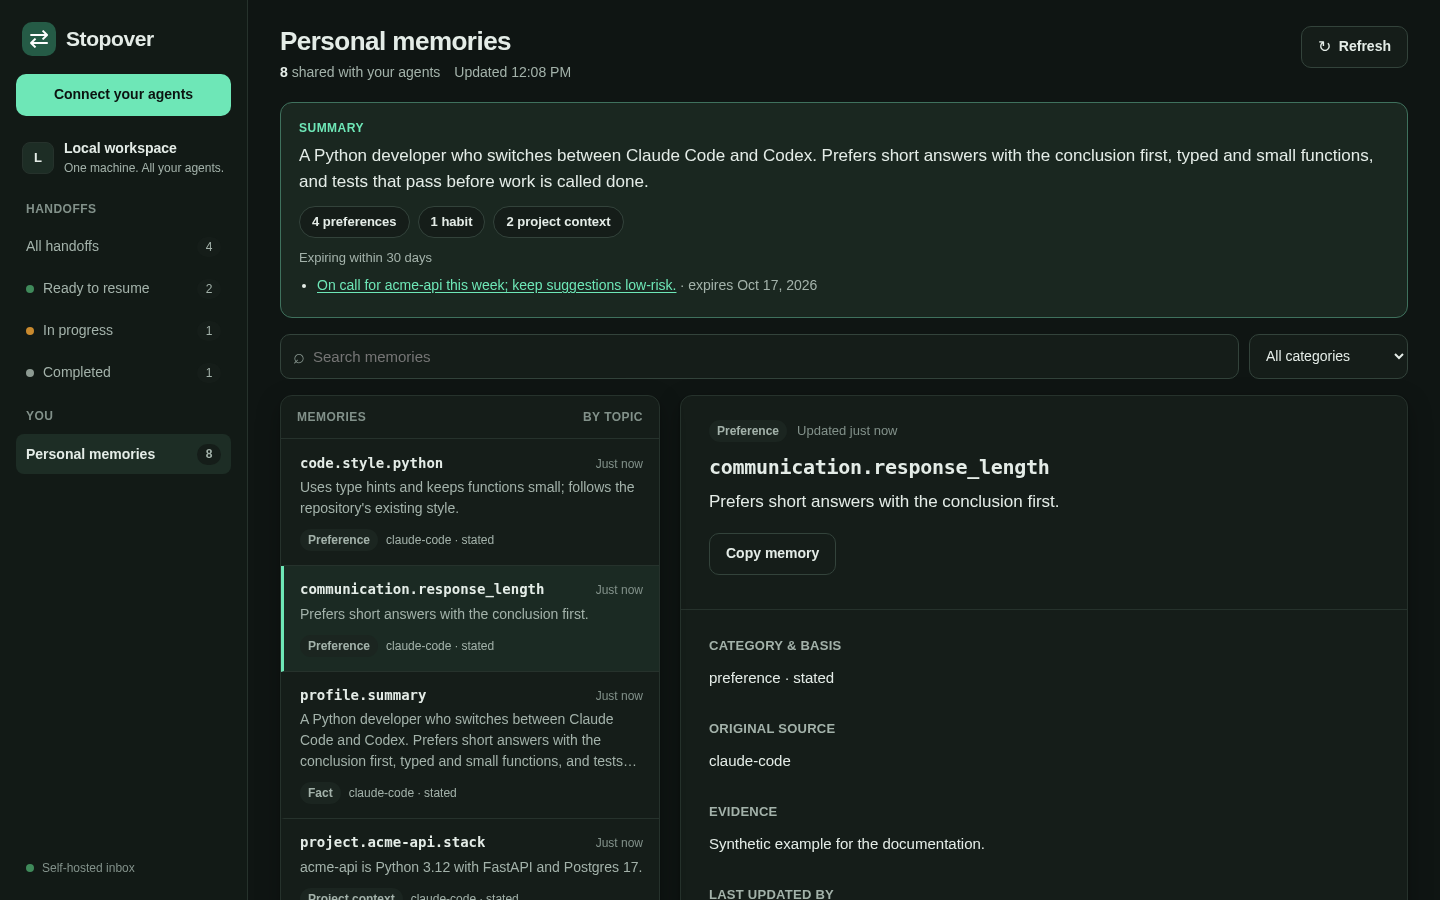
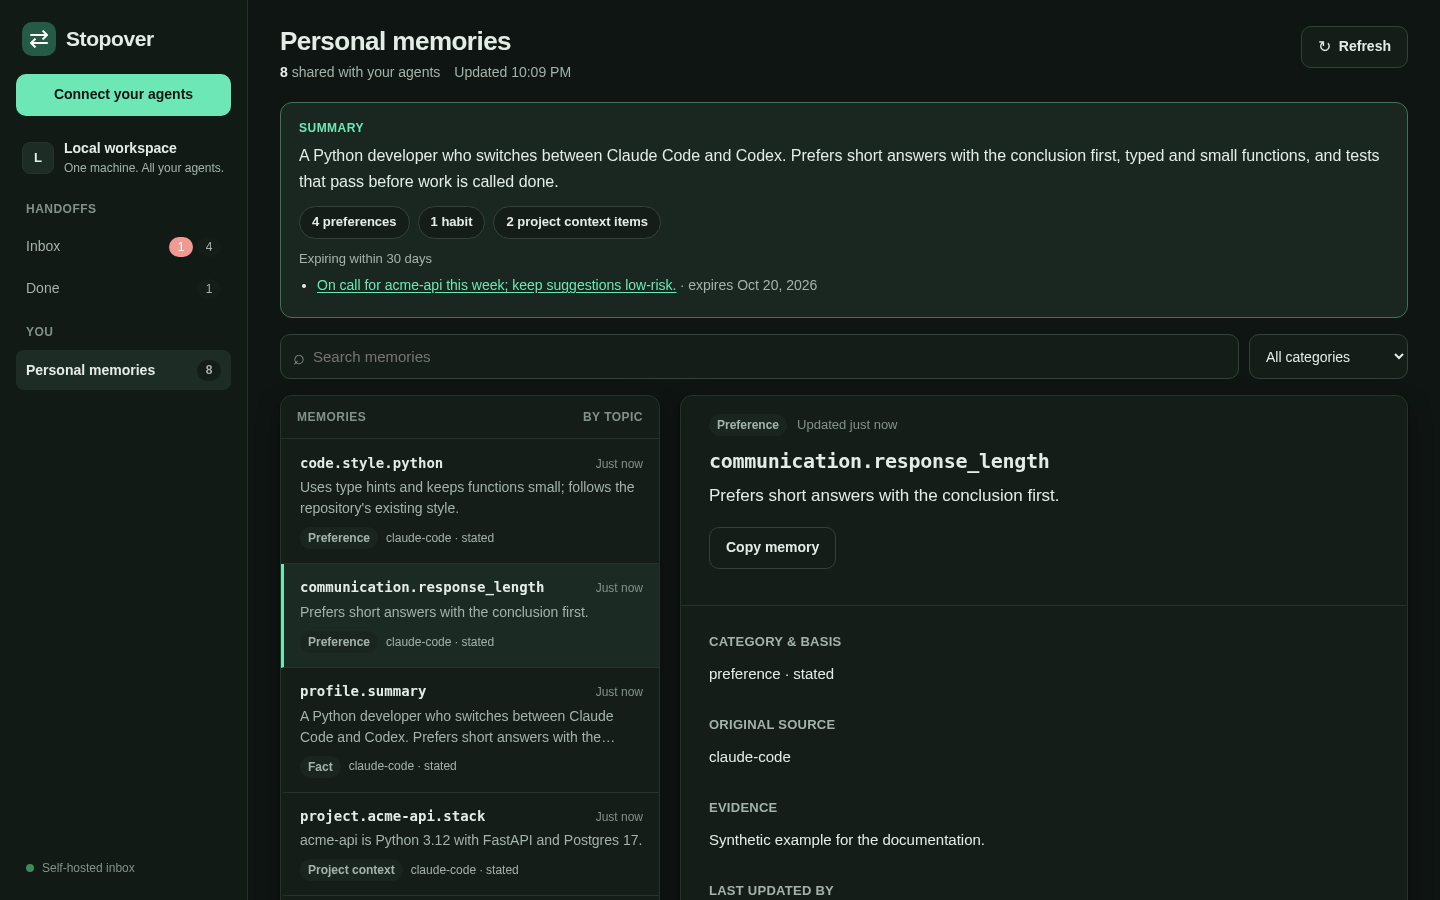
README: Stopover as an inbox for your agents' work
Lead with the problem and the inbox: hand work between agents, see what needs
you, answer questions, claims and checked outcomes, with personal memory as
support. Walk through the everyday loop, and say plainly what Stopover doesn't
do. Regenerate the screenshots from the new dashboard, including a handoff
waiting on questions.

Claude-Session: https://claude.ai/code/session_01XdbK9rSo4eS7x4nARt7MPg

diff --git a/scripts/screenshots.py b/scripts/screenshots.py
@@ -33,7 +33,9 @@ from stopover.sample import sample_record  # noqa: E402
 HANDOFFS = [
     dict(title="Fix refresh-token rotation in the auth service", project_key="acme-api", client="claude-code",
          target=None, objective="Rotate refresh tokens on every use and detect reuse of an old token.",
-         summary="Refresh-token rotation and reuse detection work; next, add the 30-day expiry tests, then document it.",
+         summary="Refresh tokens now rotate on every use, and reusing an old token revokes the whole token family. Mobile "
+                 "tokens expire after 30 days because people sign in on phones less often.\n\nIt stopped before the expiry "
+                 "tests. Next, add tests for expiry and reuse detection, then document the behaviour in docs/auth.md.",
          state="Rotation and reuse detection are implemented. Expiry tests are still missing.",
          decision=("Expire mobile refresh tokens after 30 days", "Mobile users complained about weekly sign-outs."),
          steps=[("expiry-tests", "Add tests for 30-day expiry and reuse detection.", "pytest passes with the new tests."),
@@ -41,7 +43,8 @@ HANDOFFS = [
          criteria=["Reusing a rotated token revokes the whole token family.", "Tests cover expiry and reuse."]),
     dict(title="Migrate the billing worker to the new queue", project_key="acme-api", client="codex", target="claude-code",
          objective="Move the billing worker from the legacy cron to the job queue without double-charging.",
-         summary="The queue consumer is built behind a flag; next, make every charge idempotent before turning off the cron.",
+         summary="The queue consumer is built behind a flag, and the cron stays as a fallback for one release.\n\nNext, "
+                 "make every charge idempotent so a retried job can never charge twice, then turn off the cron.",
          state="The queue consumer exists behind a flag. The cron job still runs in production.",
          decision=("Keep the cron as a fallback for one release", "Rollback must not need a deploy."),
          steps=[("idempotency", "Add an idempotency key to every charge.", "A replayed job never charges twice.")],
@@ -53,6 +56,16 @@ HANDOFFS = [
          decision=("Lazy-load charts below the fold", "Most users never scroll to them."),
          steps=[("split", "Split the chart library into a lazy chunk.", "The initial bundle shrinks by at least 30%.")],
          criteria=["First contentful paint under 1 s in the Lighthouse mobile profile."]),
+    dict(title="Add CSV export to reports", project_key="acme-web", client="codex", target=None,
+         objective="Let people download any report as a CSV file.",
+         summary="The CSV writer streams rows so large reports don't run out of memory, and the export button is on the "
+                 "reports page.\n\nTwo decisions block the last step: which columns to include, and how to format dates.",
+         state="Writer and button done; the column mapping waits on two decisions.",
+         decision=("Stream rows instead of building the file in memory", "Some reports have a million rows."),
+         steps=[("columns", "Map the chosen columns.", "The file contains exactly the agreed columns.")],
+         criteria=["Downloading any report produces a valid CSV."],
+         questions=["Which columns go in the export: everything on screen, or a fixed set?",
+                    "Should dates be in UTC or the viewer's timezone?"]),
     dict(title="Write the release notes for 2.4", project_key="acme-web", client="hermes", target="codex",
          objective="Summarise the 2.4 changes for customers.", state="Draft covers features; fixes are missing.",
          decision=("Group fixes by product area", "Customers scan by area, not by ticket."),
@@ -88,7 +101,7 @@ def record_for(spec) -> dict:
                    background="Synthetic example for Stopover's documentation; not a real project.", constraints=[],
                    decisions=[{"decision": spec["decision"][0], "reason": spec["decision"][1], "evidence_ids": []}],
                    next_steps=[{"id": i, "action": a, "done_when": d} for i, a, d in spec["steps"]],
-                   acceptance_criteria=spec["criteria"], open_questions=[])
+                   acceptance_criteria=spec["criteria"], open_questions=spec.get("questions", []))
     if record["target_client"] is None:
         del record["target_client"]
     return record
@@ -108,10 +121,10 @@ async def populate(url: str):
         for spec in HANDOFFS:
             saved.append(await call("stopover_save", {"operation_id": str(uuid.uuid4()), "record": record_for(spec)}))
             time.sleep(1.1)  # distinct timestamps, so the list order is stable
-        # One handoff in progress, one finished, the rest available.
+        # One handoff with an agent, one asking questions, one finished, the rest ready to continue.
         await call("stopover_resume", {"operation_id": str(uuid.uuid4()), "id": saved[1]["id"], "holder_label": "claude-code"})
-        done = await call("stopover_resume", {"operation_id": str(uuid.uuid4()), "id": saved[3]["id"], "holder_label": "codex"})
-        await call("stopover_complete", {"operation_id": str(uuid.uuid4()), "id": saved[3]["id"], "claim_token": done["claim_token"],
+        done = await call("stopover_resume", {"operation_id": str(uuid.uuid4()), "id": saved[4]["id"], "holder_label": "codex"})
+        await call("stopover_complete", {"operation_id": str(uuid.uuid4()), "id": saved[4]["id"], "claim_token": done["claim_token"],
                                       "completion": {"outcome": "succeeded", "summary": "Release notes drafted with all fixes.",
                                                      "acceptance_results": [{"index": 0, "result": "pass",
                                                                              "evidence": "Checked against the 2.4 milestone."}]}})
@@ -128,7 +141,7 @@ async def populate(url: str):
 SHOWN = "http://127.0.0.1:8765"
 
 
-def capture(base: str, first_id: str):
+def capture(base: str, first_id: str, asking_id: str):
     OUT.mkdir(parents=True, exist_ok=True)
     with sync_playwright() as p:
         browser = p.chromium.launch()
@@ -149,6 +162,9 @@ def capture(base: str, first_id: str):
         open_list(page, f"/handoffs/{first_id}")
         page.wait_for_function("!document.querySelector('#detail .empty-detail')", timeout=15000)
         page.screenshot(path=OUT / "handoff-detail.png")
+        open_list(page, f"/handoffs/{asking_id}")
+        page.wait_for_selector("#detail .question-card", timeout=15000)
+        page.screenshot(path=OUT / "questions.png")
         page.goto(SHOWN + "/memories/communication.response_length")
         page.wait_for_selector("#memory-list button", timeout=15000)
         page.wait_for_function("!document.querySelector('#memory-detail .empty-detail')", timeout=15000)
@@ -177,7 +193,7 @@ def main():
                 except OSError:
                     time.sleep(0.1)
             saved = asyncio.run(populate(base + "/mcp"))
-            capture(base, saved[0]["id"])
+            capture(base, saved[0]["id"], saved[3]["id"])
         finally:
             server.terminate()
             server.wait(timeout=10)

diff --git a/README.md b/README.md
@@ -1,15 +1,19 @@
 # Stopover
 
-**Hand work between AI coding agents, and give every agent the same picture of you.**
+**A self-hosted inbox for your AI agents' work.**
 
-Stopover is a small, self-hosted server with a web dashboard. Agents connect to it through MCP, the protocol they use to call external tools. It gives them two separate features:
+You use more than one AI agent: Claude Code today, Codex when you hit a usage limit, Cursor on the other machine. Each one starts from zero. Stopover gives them one place to leave work and pick it up again, and gives you one place to see what's waiting.
 
-- **Handoffs:** save a task in one agent (its goal, decisions, progress and next steps) and continue it in another.
-- **Personal memory:** one shared set of your preferences, habits and ongoing context that every connected agent can read and update.
+- **Hand work between agents.** Say "save a handoff" in one agent. Another agent, even on another machine, resumes with the goal, decisions, progress and next steps, without you re-explaining anything.
+- **See what needs you.** The dashboard's inbox sorts open work into *Needs you*, *Ready to continue* and *With an agent*, grouped by project.
+- **Answer your agents' questions.** When an agent stops with open questions, answer them in the dashboard. The next agent that picks up the work gets your answers.
+- **No double work.** Resuming a handoff claims it, so two agents don't work on the same task. A claim lasts an hour unless the agent renews it; after that, any agent can continue the work.
+- **Finished means checked.** An agent can only mark work succeeded with evidence for each acceptance criterion, and the outcome stays with the handoff.
+- **Bring your preferences along.** A shared personal memory ("prefers short answers", "uses pnpm") that every connected agent can read and update.
 
 ![Claude Code saves a handoff; Codex resumes its goal, decisions, progress, and next steps](docs/images/how-it-works.svg)
 
-Run Stopover on your computer for local use, or share it privately across your devices with Tailscale. It has no accounts or built-in authentication: anyone who can reach it shares access to all handoffs and personal memories.
+Stopover is a small server with a web dashboard. Agents connect through MCP, the protocol they use to call external tools, so it works with Claude Code, Codex, Cursor, Hermes, OMP and any other MCP client. It runs in one Docker container on your machine, and everything stays in a local SQLite database.
 
 ## Quickstart
 
@@ -19,14 +23,13 @@ You need Git and Docker Engine 28+ with Compose v2, or current Docker Desktop. D
 git clone https://github.com/HiddenVectr/Stopover.git
 cd Stopover
 docker compose up --build -d --wait --wait-timeout 60
-docker compose ps
 ```
 
-Open **http://127.0.0.1:8765**. The start command waits for the service to become healthy. The dashboard starts empty. If it does not open, check `docker compose logs --tail=50 stopover`.
+Open **http://127.0.0.1:8765**. The dashboard starts empty. If it doesn't open, check `docker compose logs --tail=50 stopover`.
 
-## Connect your agent
+## Connect your agents
 
-Choose the command for your agent:
+Add Stopover to each agent you use:
 
 ```sh
 # Claude Code
@@ -36,59 +39,62 @@ claude mcp add --scope user --transport http stopover http://127.0.0.1:8765/mcp
 codex mcp add stopover --url http://127.0.0.1:8765/mcp
 ```
 
-Start a fresh agent session. Ask it:
+Start a fresh session and ask:
 
 > List my Stopover handoffs without claiming any.
 
-An empty successful result confirms the connection. For Cursor, OMP, Hermes, Muse Code, and other MCP clients, see [client setup](docs/clients.md). The dashboard's **Connect your agents** button also shows the server URL and setup commands.
+An empty successful result means it works. For Cursor, OMP, Hermes, Muse Code and other clients, see [client setup](docs/clients.md), or use the dashboard's **Connect your agents** button.
 
-## Save and resume
+## How you use it
 
-In your connected agent, say:
+**1. Save when you stop.** Out of usage, done for the day, or switching machines? In your agent, say:
 
 > Save a handoff so I can continue this conversation later.
 
-The agent saves a summary and gives you a prompt such as `Resume Handoff <id>`. Claude Code and Codex can install [short commands](docs/usage.md#short-commands) such as `/stopover-save` and `$stopover-resume`.
+The agent writes a summary of a paragraph or two plus the details the next agent needs, and replies with a prompt such as `Resume Handoff 9b1bc726-…`. Claude Code and Codex can install [short commands](docs/usage.md#short-commands) such as `/stopover-save` and `$stopover-resume`.
 
-Connect your other agent to the same Stopover server, start a fresh session, and paste the prompt. It claims the handoff and continues using the saved context. You can also copy the prompt from the dashboard.
+**2. Continue in another agent.** Open the other agent and paste the prompt, or copy it from the dashboard. The agent claims the handoff, restates where things stand, and carries on.
 
-![A handoff in the Stopover dashboard, showing its objective, current state, and next steps](docs/images/handoff-detail.png)
+![The Stopover inbox: one handoff needs answers, two are ready to continue, one is with an agent](docs/images/dashboard.png)
 
-The receiving agent needs access to the project files. Stopover saves summaries rather than full transcripts, does not transfer files, and does not start agents for you. A claim helps coordinate work; it cannot prevent an agent from editing files after its claim expires.
+**3. Check the inbox.** The dashboard opens on what to do next. **Needs you** lists handoffs whose agent left questions; **Ready to continue** is work waiting for an agent; **With an agent** is work someone has picked up. Finished work moves to **Done** with its outcome. With nothing selected, **Next up** shows the one thing to look at first.
+
+**4. Answer questions.** Open a handoff in **Needs you**, type your answers and save. They're stored alongside the handoff, never changing what the agent saved, and the next agent to read or resume it gets them.
+
+![A handoff waiting on two questions, with answer boxes and the resume prompt below](docs/images/questions.png)
+
+Each handoff opens with its summary and the prompt to continue it. Next steps follow; the full record (objective, decisions, what was tried, references and history) is folded underneath for when you need it.
+
+### What Stopover doesn't do
+
+- **It doesn't move your files.** The agent that continues needs its own access to the repository and tools.
+- **It doesn't start agents.** Work waits in the inbox until you open an agent and resume it.
+- **A claim isn't a lock.** It tells other agents the work is taken; it can't stop an agent from editing files after its claim expires.
+- **It saves summaries, not transcripts.** A handoff holds what the agent chose to write down. Check that important details made it in before closing the original session.
 
 ## Personal memory
 
-Handoffs carry one task. Personal memory carries what your agents know about *you*, such as “prefers concise answers” or “uses pnpm, not npm”, so a new agent doesn't start from zero. Memories last until you ask an agent to forget them.
-
-To save what an agent knows about you, say:
-
-> Update my Stopover memory.
-
-In another connected agent, say:
-
-> Import my Stopover memory.
-
-Browse saved memories in **Personal memories** on the dashboard, and ask any agent to correct or forget one. See [personal memory](docs/memory.md) for what is saved and how forgetting works.
+Handoffs carry one task. Personal memory carries what your agents know about *you*, so a new agent doesn't start from zero. Say "update my Stopover memory" in one agent and "import my Stopover memory" in another. Browse, correct or forget memories from any agent, and see them all under **Personal memories** in the dashboard. See [personal memory](docs/memory.md) for what's saved and how forgetting works.
 
 ## Keep your data private
 
-The supplied Compose file publishes Stopover on localhost. **Do not expose this deployment to the public internet.** For access from your other devices, use [Tailscale Serve with restricted access rules](docs/remote-http.md).
+Stopover has no accounts or built-in authentication: anyone who can reach it can read and change every handoff and memory. The supplied Compose file listens on localhost only. **Don't expose it to the public internet.** To use it from your other devices, put it behind [Tailscale Serve with access rules](docs/remote-http.md).
 
-Do not save credentials or secrets. Context an agent reads may be sent to that agent's model provider.
+Don't save credentials or secrets in handoffs. Anything an agent reads may be sent to that agent's model provider.
 
-Handoffs and memories survive container restarts in the Docker volume. **`docker compose down -v` deletes that volume.** See [operations](docs/operations.md) for backups, restore, and updates.
+Data survives container restarts in a Docker volume. **`docker compose down -v` deletes it.** See [operations](docs/operations.md) for backups, restore, retention and updates.
 
 ## More information
 
-- [Using Stopover](docs/usage.md): saving, finding and resuming handoffs.
+- [Using Stopover](docs/usage.md): saving, finding, resuming and answering handoffs.
 - [Personal memory](docs/memory.md): sharing your preferences and context between agents.
 - [Client setup](docs/clients.md): commands and configuration for each agent.
-- [API reference](docs/api.md): tool contracts, retries, claims, and pagination.
-- [Operations](docs/operations.md): storage, configuration, backups, and retention.
-- [Tailscale deployment](docs/remote-http.md): private access across devices.
-- [Implementation](docs/implementation.md): how Stopover works inside.
+- [API reference](docs/api.md): tool contracts, claims, answers, retries and the dashboard API.
+- [Operations](docs/operations.md): storage, configuration, backups and retention.
+- [Tailscale deployment](docs/remote-http.md): private access across your devices.
+- [Implementation](docs/implementation.md): how Stopover works inside, and its extension points.
 - [Changelog](CHANGELOG.md): changes and upgrade notes.
-- [Security policy](SECURITY.md): how to report a vulnerability privately, and what Stopover does and doesn't protect.
+- [Security policy](SECURITY.md): reporting a vulnerability, and what Stopover does and doesn't protect.
 
 ## Development
 
@@ -100,7 +106,7 @@ python3 -m venv .venv
 .venv/bin/python -m pytest -q
 ```
 
-On Windows, use executables in `.venv\Scripts\`. See [local development](docs/implementation.md#local-development) for running without Docker and regenerating screenshots.
+On Windows, use the executables in `.venv\Scripts\`. See [local development](docs/implementation.md#local-development) for running without Docker and regenerating screenshots.
 
 Contributions are welcome; see [CONTRIBUTING.md](CONTRIBUTING.md). Stopover is pre-1.0: a minor release can include breaking changes, always marked in the [changelog](CHANGELOG.md), and only the latest release gets fixes.
 

diff --git a/docs/usage.md b/docs/usage.md
@@ -35,6 +35,8 @@ The dashboard opens on the **Inbox**: open work, sorted by what to do next.
 
 Finished handoffs move to **Done**. Within each section, handoffs are grouped under their project when there are several; select a project to show only that one. Search covers every handoff. With nothing selected, the right-hand side shows **Next up**: the first handoff waiting on you, or the next one ready to continue.
 
+![A handoff opened from the inbox: its summary, the prompt to continue it, and next steps](images/handoff-detail.png)
+
 Select a handoff to open it. The top shows its status, who saved it, the summary, and **Continue in another agent** with the `Resume Handoff <id>` prompt to copy. If the agent left questions, **Questions for you** comes first: type an answer and select **Save answer**. Answers never change the saved record; the next agent to read or resume the handoff gets them alongside it, even after the original session has ended. Next steps follow, and the rest of the record (objective, decisions, background, references, activity and the full JSON) is folded under **Details** and **Record & history**. The **⋯** menu has Copy full record, Copy ID and **Delete**, which removes the handoff with its answers and history (it asks first, and warns you if an agent has it). The dashboard refreshes every 15 seconds.
 
 For a clearly labeled example, run `docker exec stopover python -m stopover seed-demo`. The app does not create examples automatically.
